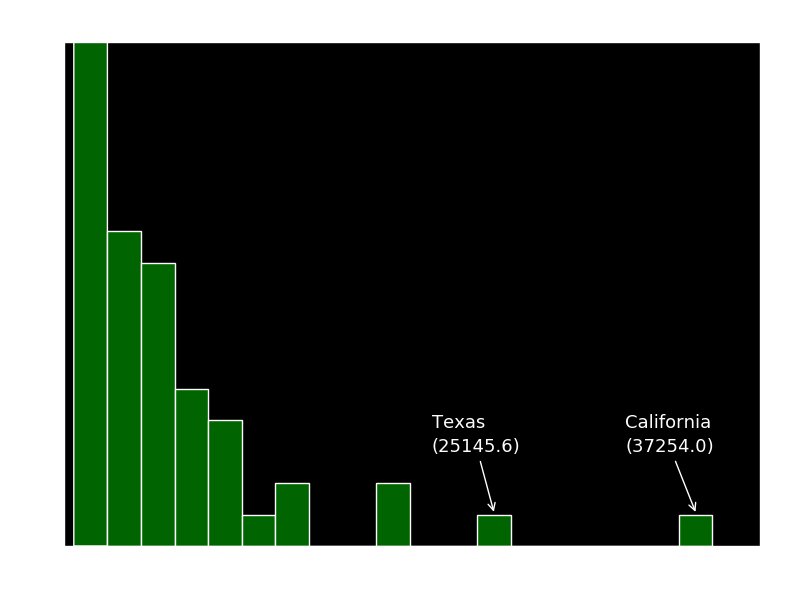
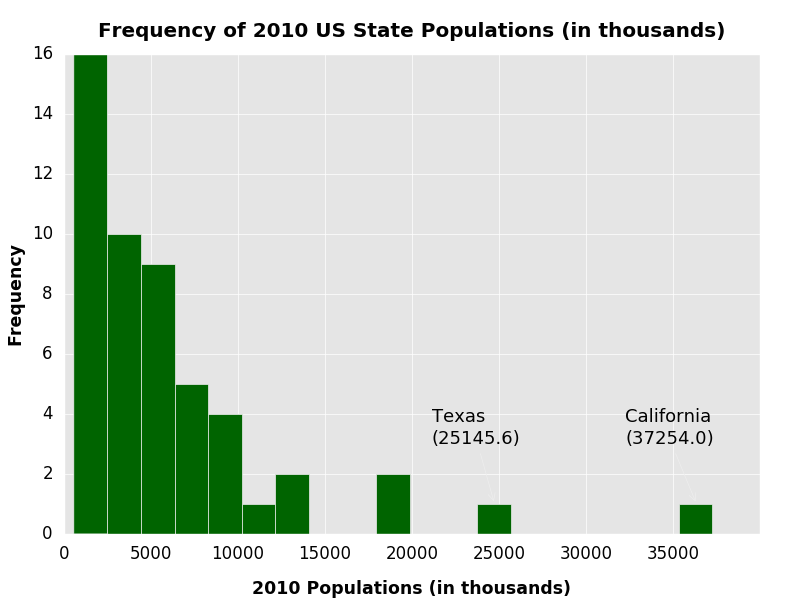
adjust histogram spacing
add space between title and plot. add space between x axis title and
plot

diff --git a/histogram.py b/histogram.py
@@ -65,6 +65,15 @@ ax1.tick_params(axis = 'both',
                 colors = 'black',
                 labelsize = 12)
 
+# Remove last x-axis label (not needed).
+ax1.xaxis.get_major_ticks()[-1].label1.set_visible(False)
+
+# Adjust plot title spacing.
+ax1.title.set_position([0.5, 1.02])
+
+# Adjust x-axis title spacing.
+ax1.xaxis.labelpad = 12
+
 # Set plot and axes titles.
 plt.title('Frequency of 2010 US State Populations (in thousands)',
           fontweight = 'bold')
@@ -79,9 +88,9 @@ plt.ylabel('Frequency',
 
 # Adjust plot margins.
 plt.subplots_adjust(left = 0.08,
-                    bottom = 0.09,
+                    bottom = 0.11,
                     right = 0.95,
-                    top = 0.93)
+                    top = 0.91)
 
 # Show plot.
 plt.show()
